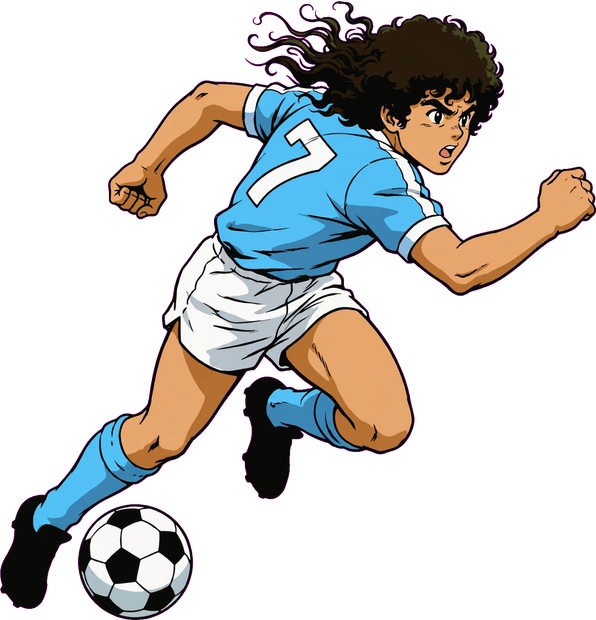
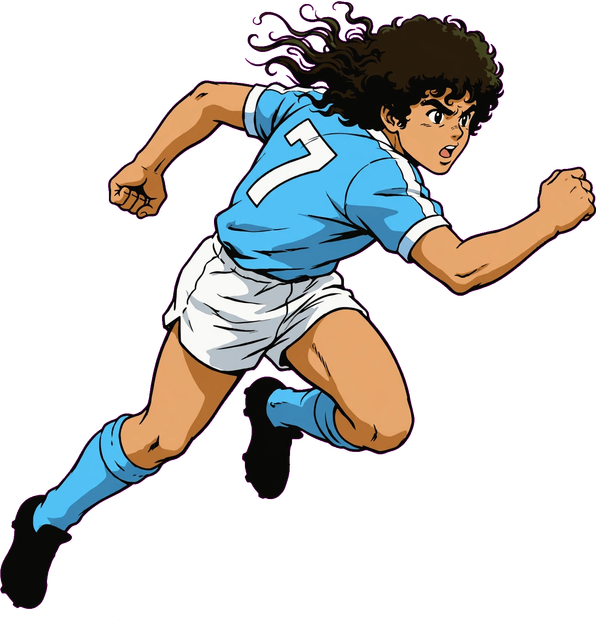
Arte A2+A3+A4: identidades, ciclo de corrida y encuadre del panel
A2 · LAS 6 IDENTIDADES. 4 propias (camiseta celeste, dorsales 7/11/9/8) y
2 rivales (naranja a rayas, 10 y 5), como dicen los nombres de archivo.
Se recortaron con una CAJA COMÚN, no una por una: los pisos quedaron en
618-619 de 620, o sea 1px de diferencia entre las seis.
Un hallazgo: los 6 PNG traían la PELOTA DIBUJADA, y el juego dibuja
siempre la suya (V7 §0.1) — habrían aparecido dos, y una hasta en los que
no la llevan. Se borró (estaba en x≈0.228 y≈0.902 r≈0.096 en las seis) y
quedó anotado en el manifest.

A3 · EL CICLO DE CORRIDA. Los tres cuadros van declarados con el campo
"ciclo" (ms 120) que el manifest ya aceptaba, y se recortaron con la
misma caja común: no se reescaló ni se recentró ninguno por separado.
El panel alterna los cuadros mientras el portador se mueve y vuelve a la
pose quieta al frenar.

A4 · ESCALA Y ENCUADRE DEL PANEL.
- La figura pasa de ocupar un tercio a ~80% del alto útil, anclada por
  los PIES a la línea del suelo (origin abajo): nunca se le cortan.
- VELO DE FOCO: cuando el protagonista actúa, la tribuna y el pasto se
  oscurecen y la figura recorta. Vive entre el fondo y las figuras, así
  que jamás oscurece al que corre, y sigue vivo aunque el panel esté
  congelado por el menú.
- FRANJA PROPIA para el texto, abajo: el nombre ya no flota sobre el
  sprite.
Perillas en balance.vista: panel_techo_y, panel_suelo_y,
panel_figura_frac, panel_figura_x, panel_velo_alpha, panel_franja_y.
[…]

Changed region(s): [[0.1208, 0.7968, 0.3322, 1.0]]

diff --git a/phaser/scenes/match.js b/phaser/scenes/match.js
@@ -43,6 +43,11 @@ window.PampaMatch = class PampaMatch extends Phaser.Scene {
       Object.keys(poses.poses).forEach(id => {
         const p = poses.poses[id];
         if (p && p.archivo) this.load.image("pose_" + id, "../" + base + p.archivo);
+        /* TANDA DE ARTE A3: los cuadros del CICLO (si el manifest los declara).
+           Sin "ciclo" no cambia nada: se usa la pose quieta de siempre. */
+        if (p && p.ciclo && p.ciclo.cuadros) p.ciclo.cuadros.forEach((f, k) => {
+          this.load.image("pose_" + id + "_c" + k, "../" + base + f);
+        });
       });
       /* ARTE 2: los fondos del manifest (la tribuna detrás del arco) */
       if (poses.fondos) Object.keys(poses.fondos).forEach(id => {
@@ -610,6 +615,16 @@ window.PampaMatch = class PampaMatch extends Phaser.Scene {
     });
     this.panelPasto = this.add.tileSprite(480, 231, 960, 146, "pasto_tile");
     this.panelLayer.add(this.panelPasto);
+    /* A4 · EL VELO DE FOCO: un negro suave sobre tribuna y pasto que sube
+       cuando el protagonista ACTÚA, para que la figura recorte. Va acá, entre
+       el fondo y las figuras: nunca oscurece al que corre. */
+    /* fillAlpha en 1 y el objeto en alpha 0: en Phaser el sexto parámetro es
+       el fillAlpha, y si queda en 0 el rectángulo NO se ve aunque se anime
+       .alpha (bug cazado midiendo el brillo del frame real) */
+    this.panelVelo = this.add.rectangle(480, 121 + 55, 960, 232, 0x040d08, 1)
+      .setOrigin(0.5, 0.5).setAlpha(0);
+    this.panelLayer.add(this.panelVelo);
+    this._veloObj = 0;
     /* siluetas de rivales cercanos (pool), DETRÁS del que corre */
     this.panelSil = [];
     for (let k = 0; k < 3; k++) {
@@ -622,7 +637,14 @@ window.PampaMatch = class PampaMatch extends Phaser.Scene {
     this.panelLayer.add(this.panelJug);
     this.panelPelota = this.add.sprite(482, 296, "ball").setScale(2);
     this.panelLayer.add(this.panelPelota);
-    this.panelNombre = this.add.text(430, 122, "", { fontFamily: window.PF.texto, fontSize: "12px", fontStyle: "bold", color: "#0a1f13", backgroundColor: "#f6efdc", padding: { x: 6, y: 2 } }).setOrigin(0.5);
+    /* A4 · FRANJA PROPIA para el texto: una banda abajo del panel, fuera del
+       cuerpo del sprite. Antes el nombre flotaba a la altura de la cabeza y se
+       superponía con la figura grande. */
+    const VI = this.VI || {};
+    const yFranja = VI.panel_franja_y != null ? VI.panel_franja_y : 292;
+    this.panelFranja = this.add.rectangle(480, yFranja, 960, 24, 0x0a1f13, 0.82);
+    this.panelLayer.add(this.panelFranja);
+    this.panelNombre = this.add.text(14, yFranja, "", { fontFamily: window.PF.texto, fontSize: "13px", fontStyle: "bold", color: "#f6efdc" }).setOrigin(0, 0.5);
     this.panelLayer.add(this.panelNombre);
     this._panelPrev = null;
   }
@@ -637,7 +659,40 @@ window.PampaMatch = class PampaMatch extends Phaser.Scene {
     const d = del[window.PampaAvatar.hashSemilla(j.nombre || "x") % del.length];
     return this.textures.exists("ident_" + d.id) ? "ident_" + d.id : null;
   }
-  poseDelPanel(p) {
+  /* TANDA DE ARTE A3 · EL CICLO DE CORRIDA. Si el manifest declara "ciclo"
+     para la pose de correr, el panel alterna sus cuadros mientras el portador
+     se mueve (y vuelve al cuadro quieto cuando frena). Los tres cuadros están
+     recortados con la MISMA caja, así que no hay que recentrar nada acá: se
+     cambia la textura y listo. Sin ciclo declarado, se comporta como antes. */
+  /* A4 · el fondo BAJA cuando el protagonista actúa: en LIBRE se corre y se ve
+     todo; en cuanto se abre un momento (menú, resolución, escena) el velo sube
+     y la figura recorta contra la tribuna y el pasto oscurecidos. */
+  velarPanel(delta) {
+    if (!this.panelVelo || !this.panelVelo.active) return;
+    const V = this.VI || {};
+    const actuando = this.estado !== "LIBRE" && this.estado !== "BEAT";
+    this._veloObj = actuando ? (V.panel_velo_alpha != null ? V.panel_velo_alpha : 0.45) : 0;
+    const paso = Math.min(1, (delta || 16) * 0.006);
+    this.panelVelo.setAlpha(this.panelVelo.alpha + (this._veloObj - this.panelVelo.alpha) * paso);
+  }
+  cuadroDelCiclo(corriendo) {
+    const poses = this.game.registry.get("poses");
+    const def = poses && poses.poses && poses.poses.corriendo;
+    const ciclo = def && def.ciclo;
+    if (!ciclo || !ciclo.cuadros || !ciclo.cuadros.length) return null;
+    if (!corriendo) return this.textures.exists("pose_corriendo_c0") ? "pose_corriendo_c0" : null;
+    const ms = ciclo.ms || 120;
+    const i = Math.floor(this.time.now / ms) % ciclo.cuadros.length;
+    const k = "pose_corriendo_c" + i;
+    return this.textures.exists(k) ? k : null;
+  }
+  poseDelPanel(p, corriendo) {
+    /* VOS corriendo: el ciclo manda (salvo que tengas tintes, que van sobre la
+       pose quieta — el ciclo teñido sería un bake por cuadro y no vale la pena) */
+    if (p.j.esVos && corriendo && !this.poseHeroeTenida(p.j)) {
+      const c = this.cuadroDelCiclo(true);
+      if (c) return c;
+    }
     if (!p.j.esVos) {
       const k = this.identidadDe(p.j, p.esRival);
       if (k) return k;
@@ -695,10 +750,18 @@ window.PampaMatch = class PampaMatch extends Phaser.Scene {
       this.latirHinchada(delta, !!caliente);
     }
     /* la ilustración del portador (rival sin revelar = SILUETA) */
-    const key = this.poseDelPanel(p);
+    const key = this.poseDelPanel(p, corriendo);
     if (key && this.panelJug.texture.key !== key) {
       this.panelJug.setTexture(key);
-      this.panelJug.setScale(200 / this.panelJug.height);
+      /* A4 · ESCALA Y ENCUADRE: la figura ocupaba un tercio del panel y sobraba
+         fondo. Ahora ocupa panel_figura_frac del alto útil, anclada por los PIES
+         a la línea del suelo (origin abajo), así nunca se le cortan los pies. */
+      const V = this.VI || {};
+      const altoUtil = (V.panel_suelo_y != null ? V.panel_suelo_y : 300) - (V.panel_techo_y != null ? V.panel_techo_y : 34);
+      const frac = V.panel_figura_frac != null ? V.panel_figura_frac : 0.8;
+      this.panelJug.setOrigin(0.5, 1);
+      this.panelJug.setScale((altoUtil * frac) / this.panelJug.height);
+      this.panelJug.setPosition(this.panelJug.x, V.panel_suelo_y != null ? V.panel_suelo_y : 300);
       this.panelJug.setVisible(true);
     }
     /* V7 §0.1 (playtest): el PORTADOR está SIEMPRE revelado — verlo es el
@@ -713,12 +776,22 @@ window.PampaMatch = class PampaMatch extends Phaser.Scene {
        tuc-tuc (animación limitada estilo consola vieja: dos cuadros) */
     const latidoMs = (this.BAL.pulso && this.BAL.pulso.latido_ms) || 380;
     this.panelJug.setAngle(corriendo ? (Math.floor(this.time.now / latidoMs) % 2 ? 3.5 : -3.5) : 0);
-    this.panelJug.y = 232 + (corriendo ? Math.sin(this.time.now * 0.02) * 3 : 0);
-    this.panelJug.x = 430 + (corriendo ? Math.cos(this.time.now * 0.013) * 2 : 0);
-    /* la pelota del juego al pie */
+    /* A4: la figura se ancla por los PIES a la línea del suelo; el bob de
+       carrera es un rebote chico de esa línea, no un salto del centro */
+    const Vp = this.VI || {};
+    const suelo = Vp.panel_suelo_y != null ? Vp.panel_suelo_y : 300;
+    const cx = Vp.panel_figura_x != null ? Vp.panel_figura_x : 400;
+    this.panelJug.y = suelo + (corriendo ? Math.abs(Math.sin(this.time.now * 0.02)) * -4 : 0);
+    this.panelJug.x = cx + (corriendo ? Math.cos(this.time.now * 0.013) * 2 : 0);
+    /* la pelota del juego al pie (a escala de la figura nueva) */
     const dir = this.panelJug.flipX ? -1 : 1;
-    this.panelPelota.setPosition(430 + 56 * dir, 298 - (corriendo ? Math.abs(Math.sin(this.time.now * 0.02)) * 7 : 0));
+    const anchoFig = this.panelJug.displayWidth || 120;
+    this.panelPelota.setPosition(cx + anchoFig * 0.34 * dir, suelo - 8 - (corriendo ? Math.abs(Math.sin(this.time.now * 0.02)) * 7 : 0));
     if (corriendo) this.panelPelota.rotation += 0.14 * dir;
+    /* A4 · el fondo BAJA cuando el protagonista actúa: en LIBRE se corre y se
+       ve todo; en cuanto se abre un momento (menú, resolución, beat) el velo
+       sube y la figura recorta contra el fondo oscurecido. */
+    this.velarPanel(delta);
     /* quién corre: bando por FORMA (▲/▼) + NÚMERO + NOMBRE (accesibilidad) */
     const nom = (p.esRival ? "▲ " : "▼ ") + (j.numero ? j.numero + " · " : "") + (j.esVos ? "VOS" : (j.nombre || "").toUpperCase().slice(0, 10));
     if (this.panelNombre.text !== nom) this.panelNombre.setText(nom);
@@ -3214,6 +3287,7 @@ window.PampaMatch = class PampaMatch extends Phaser.Scene {
       /* A2: con menú abierto NADA se mueve — ni el bob del panel (la escena
          queda clavada como una viñeta mientras decidís) */
       if (this._split && this.estado !== "MENU" && this.estado !== "PASE") this.updatePanelEscena(delta);
+      else if (this._split && this.velarPanel) this.velarPanel(delta);   // A4: el velo sí sigue vivo
       else { this.updateFichas(true); this.dibujarPaseCancha(); }
       return;
     }
